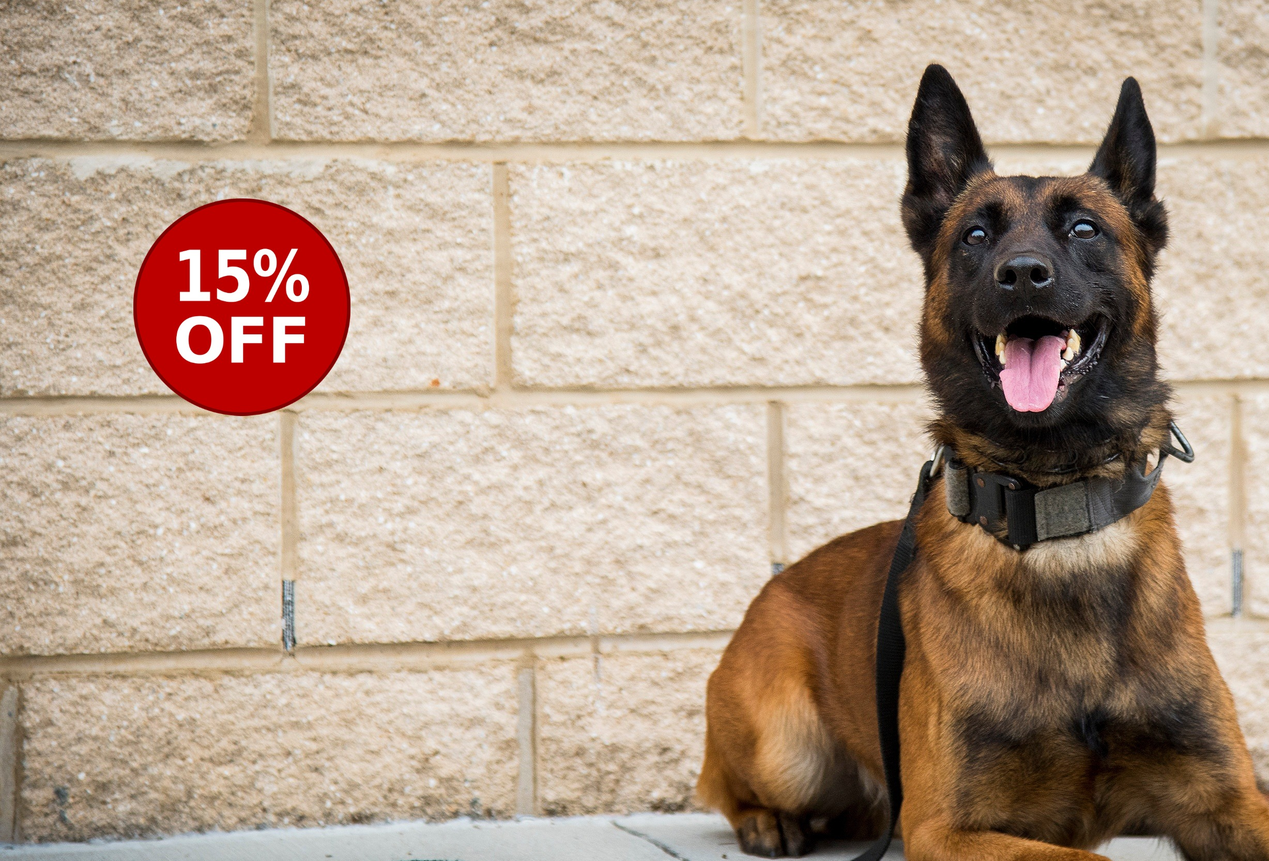
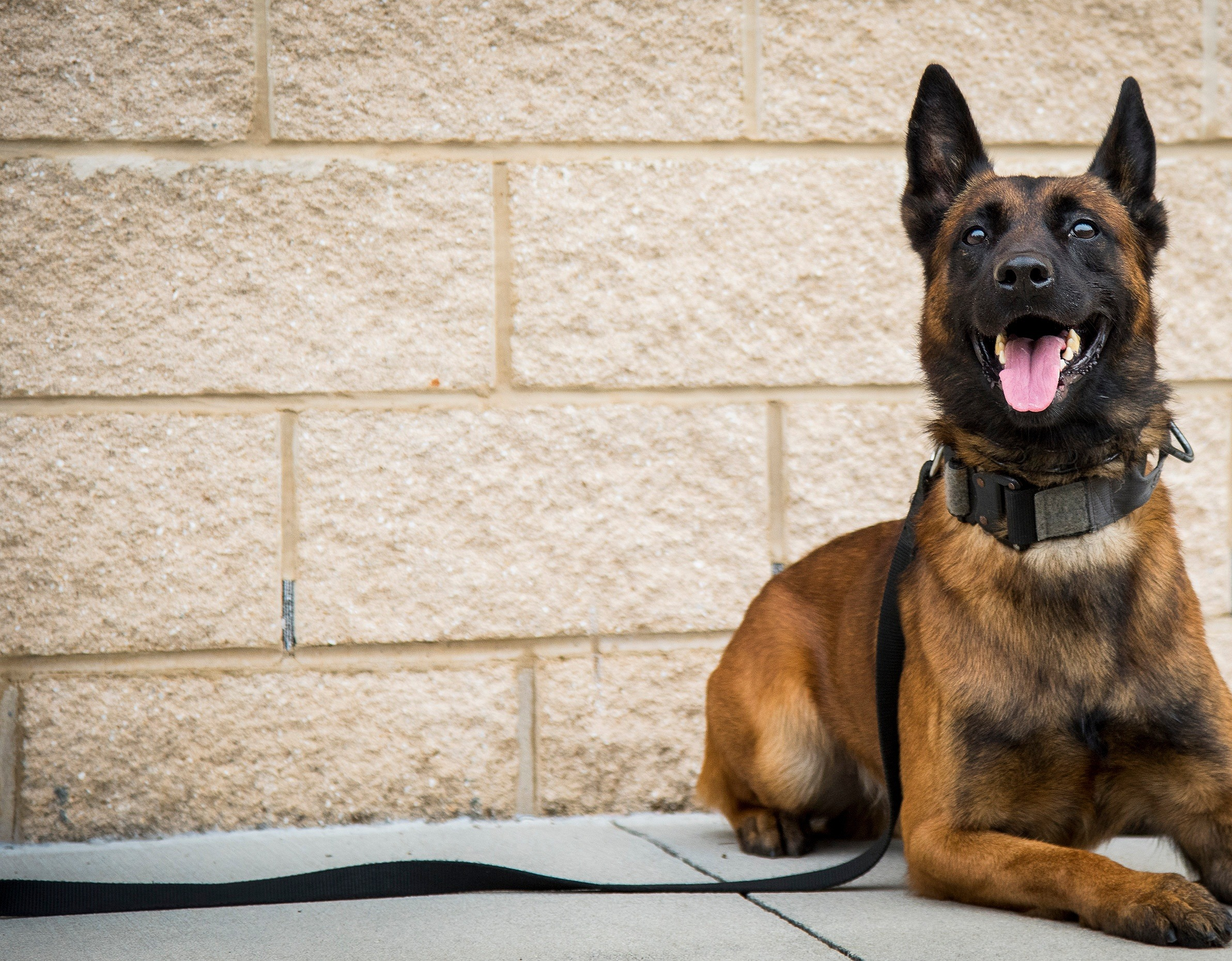
css

diff --git a/resources/views/welcome.blade.php b/resources/views/welcome.blade.php
@@ -118,10 +118,10 @@
                             data-bg-video-slide="false"
                             style="margin-top: 70px; background-image: url(assets/images/1.jpg);">
                             <div class="mbr-table-cell">
-                                {{-- <div>mina</div> --}}
+                                <div id="per15"><img  src="assets/images/15%.png" width="10%"   ></div>
                                 <div class="container-slide container" style="margin-top: 350px;">
                                     <div class="row">
-                                        <div class="col-md-6 col-md-offset-1 " style="margin:0px !important ">
+                                        <div class="col-md-6 col-md-offset-1 " style="">
                                             <h2 class="mbr-section-title display-1 text-aligin:left" style="  color:#960000;  
                                               font-family: Monotype Corsiva Regular;">For all clients </h2>
                                             <h2 class="mbr-section-title display-1 text-aligin:left" style="font-family: Monotype Corsiva Regular; color:#960000;"> on all services&nbsp;
@@ -436,6 +436,10 @@
 
             #offer-slide2 {
                 background-image: url(assets/images/2.jpg) !important;
+            }
+
+            #per15{
+                display: none
             }
 
             /*       #offer-slide3 {
